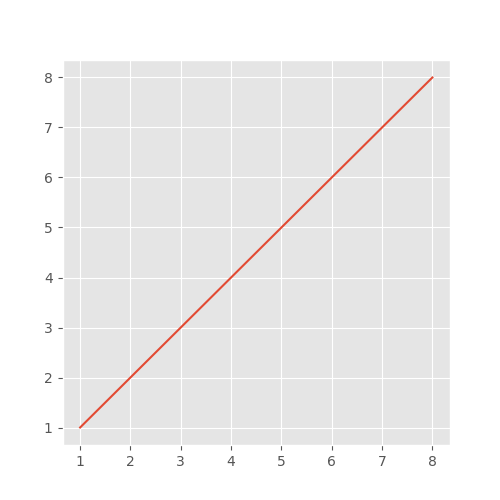
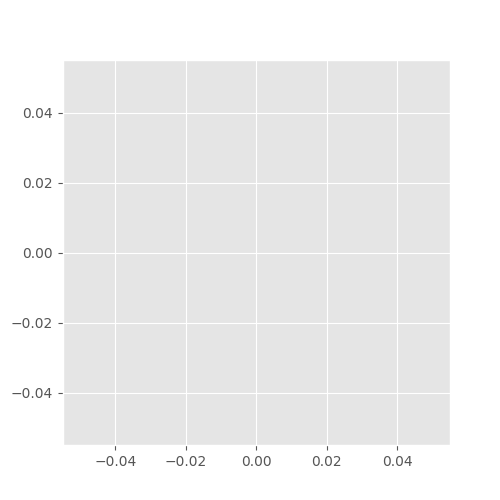
plot pressure vs time in real-time!!

diff --git a/force_detection/pressure.py b/force_detection/pressure.py
@@ -17,15 +17,9 @@ from matplotlib import style
 LARGE_FONT= ("Verdana", 12)
 style.use("ggplot")
 
-
-
 current_plot = None
-
-
-x = [1,2,3,4,5,6,7,8]
-y = [1,2,3,4,5,6,7,8]
-
-
+x = []
+y = []
 
 # Windows: COM5
 # OSX: 
@@ -44,40 +38,79 @@ class myGUI:
         label_var = tk.Label(self.frame, text="initial")
         label_var.pack()
 
-        # plot
-
-
+        # initial plot
         self.plot_pressure()
+
+        global val_list, time_list
+        val_list = []
+        time_list = []
+
+        # elapsed time
+        global start_time
+        start_time = time.time()
 
     def update_value(self):
         val = str(ser.readline())
+
+        global start_time
+        elapsed_time = time.time() - start_time
+        #print(elapsed_time)
         
-        val = val.split("= ")[1] # clean the string
+        val = val.split("=")[1] # clean the string
         val = val.split("\\")[0]
+        val = float(val)
         
         global label_var, x, y
-        label_var.destroy()
+        label_var.destroy() # replace, not add
         label_var = tk.Label(self.frame, text=val)
         label_var.pack()
-        
+
+        global val_list, time_list
+        val_list.append(val)
+        time_list.append(elapsed_time)
+        #print(val_list[-5:])
+
+        # call to refresh plot        
         #x.append(val)
-        #y.append(y[-1] + 1)
+        #y.append(y[:-1] + 1)
+        #self.refresh_plot()
+        self.refresh_plot()
         self.frame.after(1, self.update_value)
         #self.frame.after(1, self.plot_pressure)
 
-    def plot_pressure(self):
+    def plot_pressure(self): # initial plot only
         f = Figure(figsize=(5,5), dpi=100)
         a = f.add_subplot(111)
-        a.plot(x, y)
+
+        global line1
+        line1, = a.plot(x,y,'r-')
 
         #global x, y
         
+        global canvas
         canvas = FigureCanvasTkAgg(f, self.frame)
         canvas.show()
         current_plot = canvas.get_tk_widget()
         current_plot.pack(side=tk.BOTTOM, fill=tk.BOTH, expand=True)
 
-        canvas.print_figure('pressure_vs_time.png')
+    def refresh_plot(self):
+        # update x and y values
+        global val_list, time_list
+        x = time_list[-10:]
+        print(x)
+        y = val_list[-10:]
+        print(y)
+
+        # refresh the plot
+        global line1, canvas
+        line1.set_data(x,y)
+        ax = canvas.figure.axes[0]
+        #print(ax)
+        #ax.set_xlim(x.min(), x.max())
+        ax.set_xlim(min(x), max(x))
+        #ax.set_ylim(y.min(), y.max())
+        ax.set_ylim(min(y), max(y))
+        canvas.draw()
 
 root = tk.Tk() # main window
 my_gui = myGUI(root)

diff --git a/force_detection/GraphUpdateExample.py b/force_detection/GraphUpdateExample.py
@@ -20,26 +20,36 @@ class App_Window(tkinter.Tk):
         tkinter.Tk.__init__(self,parent)
         self.parent = parent
         self.initialize()
+
     def initialize(self):
         button = tkinter.Button(self,text="Open File",command=self.OnButtonClick).pack(side=tkinter.TOP)
         self.canvasFig=pltlib.figure(1)
+
         Fig = matplotlib.figure.Figure(figsize=(5,4),dpi=100)
         FigSubPlot = Fig.add_subplot(111)
+        
         x=[]
         y=[]
+        
         self.line1, = FigSubPlot.plot(x,y,'r-')
+        
         self.canvas = matplotlib.backends.backend_tkagg.FigureCanvasTkAgg(Fig, master=self)
         self.canvas.show()
         self.canvas.get_tk_widget().pack(side=tkinter.TOP, fill=tkinter.BOTH, expand=1)
         self.canvas._tkcanvas.pack(side=tkinter.TOP, fill=tkinter.BOTH, expand=1)
+        
         self.resizable(True,False)
+        
         self.update()
+
     def refreshFigure(self,x,y):
         self.line1.set_data(x,y)
+        print(type(self.line1))
         ax = self.canvas.figure.axes[0]
         ax.set_xlim(x.min(), x.max())
         ax.set_ylim(y.min(), y.max())
         self.canvas.draw()
+
     def OnButtonClick(self):
         # file is opened here and some data is taken
         # I've just set some arrays here so it will compile alone
